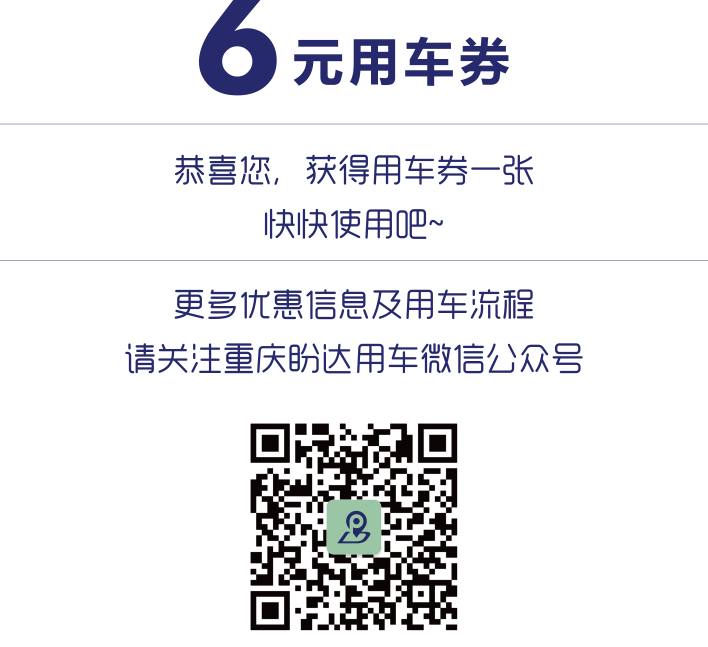
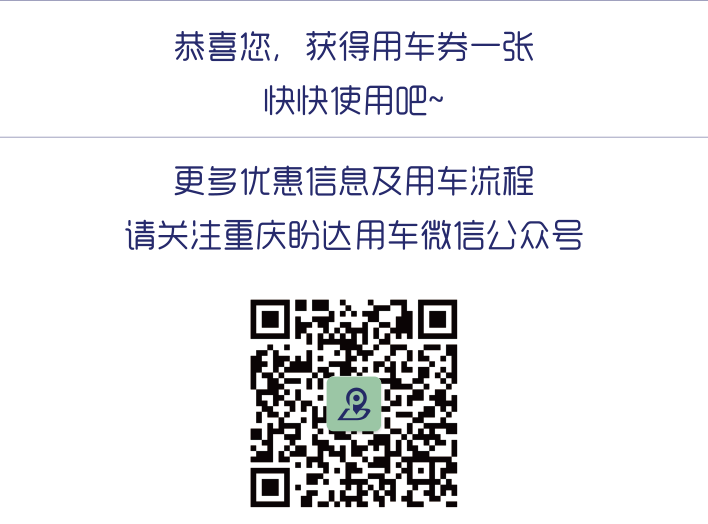
弹窗显示不同金额

Changed region(s): [[0.0, 0.0, 1.0, 0.9771]]

diff --git a/common.js b/common.js
@@ -39,9 +39,7 @@ addTouchEvent(Dom.valid_num_btn, function () {
     btn.setAttribute("style", 'background: 0 0;background-color: #ddd;border-color: #ddd');
     timeDown(btn, 60);
 
-    http.post('http://192.168.0.182/eleme/send', {'mobile': mobile, 'type': 'login'}, function (data) {
-        console.log(data);
-    });
+    http.post('http://192.168.0.182/eleme/send', {'mobile': mobile, 'type': 'login'});
 
     function timeDown(obj, wait) {
         if (wait == 0) {
@@ -70,13 +68,19 @@ addTouchEvent(Dom.submit_btn, function () {
     Dom.modal_loading.setAttribute('style', 'display: block');
     http.post('http://192.168.0.182/eleme/login', {'userName': tel, 'checkCode': checkCode}, function (data) {
         Dom.modal_loading.setAttribute('style', '');
-        if(data.code == 40001){
-            Dom.modal_over.setAttribute('style', 'display: block');
-        } else if(data.code == 0){
-            Dom.modal_suc_title.setAttribute('class', 'modal-suc-title modal-suc-title-' + data.data);
-            Dom.modal_suc.setAttribute('style', 'display: block');
+        var header = data.header;
+        if(header && header.errorcode && header.errorcode == 4008){
+            alert('请获取验证码');
+        } else {
+            if(data.code == 40001){
+                Dom.modal_over.setAttribute('style', 'display: block');
+            } else if(data.code == 0){
+                Dom.modal_suc_title.setAttribute('class', 'modal-suc-title modal-suc-title-' + parseInt(data.data));
+                Dom.modal_suc.setAttribute('style', 'display: block');
+            } else {
+
+            }
         }
-        console.log(data);
     //     Dom.modal_getted.setAttribute('style', 'display: block')
     //     Dom.modal_over.setAttribute('style', 'display: block');
     // Dom.modal_loading.setAttribute('style', 'display: block');

diff --git a/common.css b/common.css
@@ -131,12 +131,32 @@ input:focus, button:focus{
     height: 81%;
 }
 .modal-suc-title{
-    height: 86%;
+    margin: 0 auto;
+    height: 10%;
+    width: 44%;
     background-size: 100% 100%;
     background-repeat: no-repeat;
 }
+.modal-suc-info{
+    margin-top: 2.5%;
+    height: 74%;
+    background: url("img/get-suc-info.png") no-repeat;
+    background-size: 100% 100%;
+}
 .modal-suc-title-3{
-    background-image: url("img/close.png");
+    background-image: url("img/3.png");
+}
+.modal-suc-title-6{
+    background-image: url("img/6.png");
+}
+.modal-suc-title-9{
+    background-image: url("img/9.png");
+}
+.modal-suc-title-66{
+    background-image: url("img/66.png");
+}
+.modal-suc-title-129{
+    background-image: url("img/129.png");
 }
 .modal-suc-detail .over-img{
     height: 81%;

diff --git a/index.html b/index.html
@@ -42,8 +42,8 @@
         <div class="modal-front">
             <div class="modal-content modal-suc">
                 <div class="modal-suc-detail">
-                    <div class="modal-suc-title" id="modal_suc_title"></div>
-                    <!--<img src="img/get-suc-info.png" class="suc-img">-->
+                    <div class="modal-suc-title modal-suc-title-3" id="modal_suc_title"></div>
+                    <div class="modal-suc-info"></div>
                     <button class="close-btn" id="close_suc"></button>
                 </div>
             </div>
